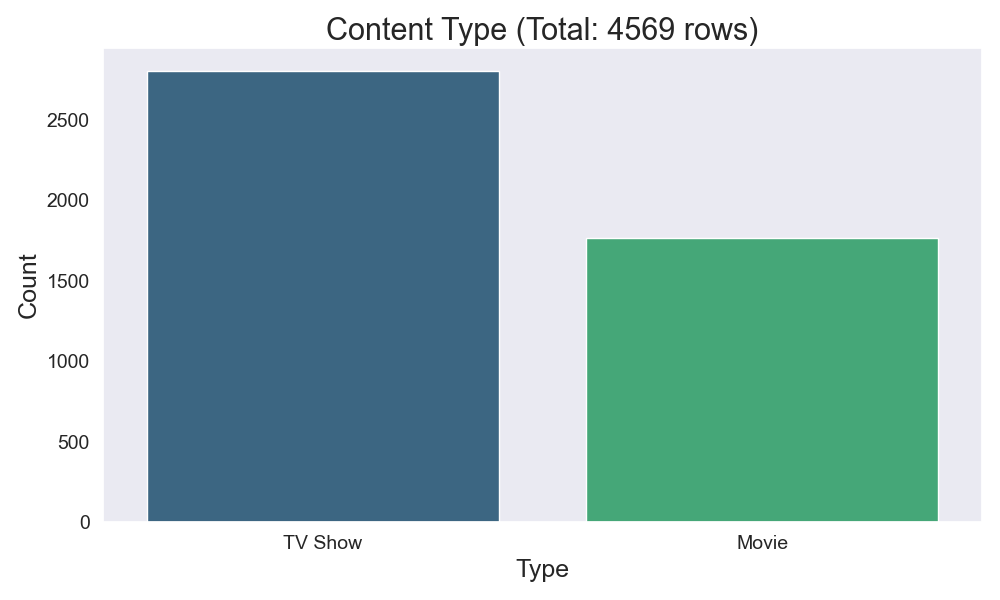
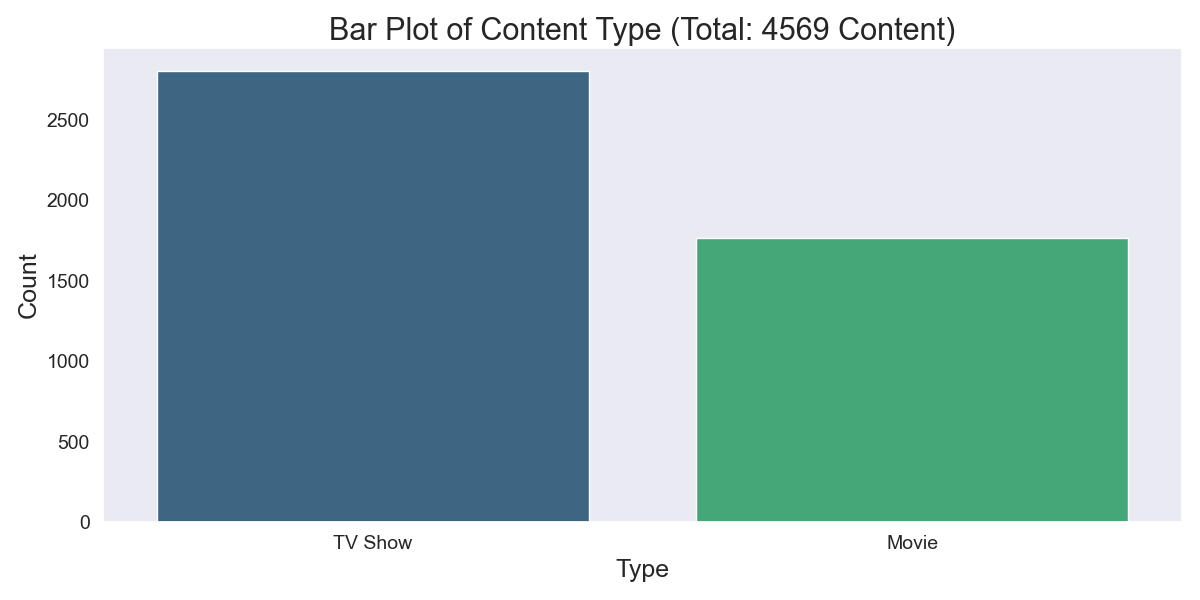
more data and more applealing

diff --git a/visualization.py b/visualization.py
@@ -9,9 +9,9 @@ sns.set_theme(style="darkgrid")
 data_cleaned = pd.read_csv('csvs/merged_cleaned_country.csv')
 
 # 1. Rating Distribution
-plt.figure(figsize=(10,6))
+plt.figure(figsize=(12,6))
 sns.histplot(data=data_cleaned, x="rating", kde=True, color='skyblue', bins=20)
-plt.title(f'Rating Distribution (Total: {len(data_cleaned)} rows)', fontsize=22)
+plt.title(f'Histogram Plot Of Rating Distribution (Total: {len(data_cleaned)} Content)', fontsize=22)
 plt.xlabel('Rating', fontsize=18)
 plt.ylabel('Count', fontsize=18)
 plt.xticks(fontsize=14)
@@ -22,10 +22,10 @@ plt.savefig('visualization/rating_distribution.png')
 plt.show()
 
 # 2. Top Genres
-plt.figure(figsize=(10,6))
+plt.figure(figsize=(12,6))
 genres = data_cleaned['genre'].str.split(', ').explode()
 sns.countplot(y=genres, order=genres.value_counts().index[:10], palette='viridis')
-plt.title(f'Top Genres (Total: {len(genres)} rows)', fontsize=22)
+plt.title(f'Bar Plot of Top Genres (Total: {len(genres)} Genres)', fontsize=22)
 plt.xlabel('Count', fontsize=18)
 plt.ylabel('Genre', fontsize=18)
 plt.xticks(fontsize=14)
@@ -36,9 +36,9 @@ plt.savefig('visualization/top_genres.png')
 plt.show()
 
 # 3. Country-wise Content
-plt.figure(figsize=(10,6))
+plt.figure(figsize=(12,6))
 sns.countplot(y=data_cleaned['country'], order=data_cleaned['country'].value_counts().index[:10], palette='viridis')
-plt.title(f'Country-wise Content (Total: {len(data_cleaned)} rows)', fontsize=22)
+plt.title(f'Bar Plot of Country-wise Content (Total: {len(data_cleaned)} Content)', fontsize=22)
 plt.xlabel('Count', fontsize=18)
 plt.ylabel('Country', fontsize=18)
 plt.xticks(fontsize=14)
@@ -54,10 +54,10 @@ movies = data_cleaned[data_cleaned['type'] == 'Movie']
 tv_shows = data_cleaned[data_cleaned['type'] == 'TV Show']
 
 # Duration of Movies
-plt.figure(figsize=(10,6))
+plt.figure(figsize=(12,6))
 movie_duration = movies['duration'].str.replace(' min', '').astype(int)
 sns.histplot(movie_duration, kde=True, color='skyblue', bins=20)
-plt.title(f'Duration of Movies (Total: {len(movies)} rows)', fontsize=22)
+plt.title(f'Histogram Plot of Duration of Movies (Total: {len(movies)} Movies)', fontsize=22)
 plt.xlabel('Duration (minutes)', fontsize=18)
 plt.ylabel('Count', fontsize=18)
 plt.xticks(fontsize=14)
@@ -69,10 +69,10 @@ plt.show()
 
 # Duration of TV Shows in Seasons
 tv_shows_seasons = tv_shows[tv_shows['duration'].str.contains('Season')]
-plt.figure(figsize=(10,6))
+plt.figure(figsize=(12,6))
 tv_show_season_duration = tv_shows_seasons['duration'].str.replace(' Season[s]?', '', regex=True).astype(int)
 sns.histplot(tv_show_season_duration, kde=True, color='skyblue', bins=20)
-plt.title(f'Duration of TV Shows (Seasons) (Total: {len(tv_shows)} rows)', fontsize=22)
+plt.title(f'Histogram Plot of Duration of TV Shows (Seasons) (Total: {len(tv_shows)} rows)', fontsize=22)
 plt.xlabel('Duration (seasons)', fontsize=18)
 plt.ylabel('Count', fontsize=18)
 plt.xticks(fontsize=14)
@@ -83,9 +83,9 @@ plt.savefig('visualization/duration_of_tv_shows_seasons.png')
 plt.show()
 
 # 5. Content Type
-plt.figure(figsize=(10,6))
+plt.figure(figsize=(12,6))
 sns.countplot(x=data_cleaned['type'], palette='viridis')
-plt.title(f'Content Type (Total: {len(data_cleaned)} rows)', fontsize=22)
+plt.title(f'Bar Plot of Content Type (Total: {len(data_cleaned)} Content)', fontsize=22)
 plt.xlabel('Type', fontsize=18)
 plt.ylabel('Count', fontsize=18)
 plt.xticks(fontsize=14)

diff --git a/business_problem.py b/business_problem.py
@@ -17,7 +17,7 @@ sns.boxplot(data=data_exploded, x='rating', y='genre',
             order=data_exploded['genre'].value_counts().index[:10],
             palette="vlag")
 
-plt.title(f'Rating vs Genre (Total: {len(data_exploded)} rows)', fontsize=20)
+plt.title(f'Boxplot of Rating vs Genre (Total: {len(data_exploded)} Genres)', fontsize=20)
 plt.xlabel('Rating', fontsize=15)
 plt.ylabel('Genre', fontsize=15)
 plt.xticks(fontsize=12)
@@ -39,9 +39,9 @@ tv_shows_seasons = tv_shows[tv_shows['duration'].str.contains('Season')].copy()
 tv_shows_seasons['duration_int'] = tv_shows_seasons['duration'].str.replace(' Season[s]?', '', regex=True).astype(int)
 
 # Create a scatterplot for movies
-plt.figure(figsize=(14, 8))
+plt.figure(figsize=(12, 6))
 sns.scatterplot(data=movies, x='duration_int', y='rating', hue='rating', palette='coolwarm', alpha=0.6)
-plt.title(f'Rating vs. Duration for Movies (Total: {len(movies)} rows)', fontsize=20)
+plt.title(f'Scatterplot Of Rating vs. Duration for Movies (Total: {len(movies)} Movies)', fontsize=20)
 plt.xlabel('Duration (minutes)', fontsize=15)
 plt.ylabel('Rating', fontsize=15)
 plt.xticks(fontsize=12)
@@ -51,9 +51,9 @@ plt.savefig('business_visualization/rating_vs_duration_movies.png')
 plt.show()
 
 # Create a scatterplot for TV shows
-plt.figure(figsize=(14, 8))
+plt.figure(figsize=(12, 6))
 sns.scatterplot(data=tv_shows_seasons, x='duration_int', y='rating', hue='rating', palette='coolwarm', alpha=0.6)
-plt.title(f'Rating vs. Duration for TV Shows (Total: {len(tv_shows_seasons)} rows)', fontsize=20)
+plt.title(f'Scatterplot Of Rating vs. Duration for TV Shows (Total: {len(tv_shows_seasons)} Shows)', fontsize=20)
 plt.xlabel('Duration (seasons)', fontsize=15)
 plt.ylabel('Rating', fontsize=15)
 plt.xticks(fontsize=12)
@@ -61,7 +61,6 @@ plt.yticks(fontsize=12)
 plt.tight_layout()
 plt.savefig('business_visualization/rating_vs_duration_tv_shows.png')
 plt.show()
-
 
 
 
